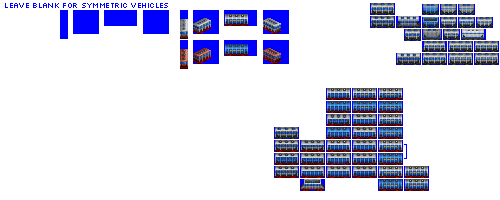
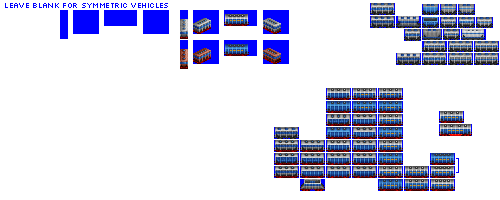
Change: more grain hopper WIP

diff --git a/src/vehicles/grain_hopper_cars.py b/src/vehicles/grain_hopper_cars.py
@@ -64,9 +64,9 @@ def main():
     consist.add_unit(type=FreightCar,
                      chassis='4_axle_filled_24px')
 
-
+    """
     consist = GrainHopperCarConsist(roster='pony',
-                                      base_numeric_id=2700,
+                                      base_numeric_id=2690,
                                       gen=5,
                                       subtype='C',
                                       sprites_complete=False)
@@ -74,7 +74,7 @@ def main():
     consist.add_unit(type=FreightCar,
                      chassis='4_axle_filled_32px')
 
-
+    """
     consist = GrainHopperCarConsist(roster='pony',
                                       base_numeric_id=2060,
                                       gen=6,
